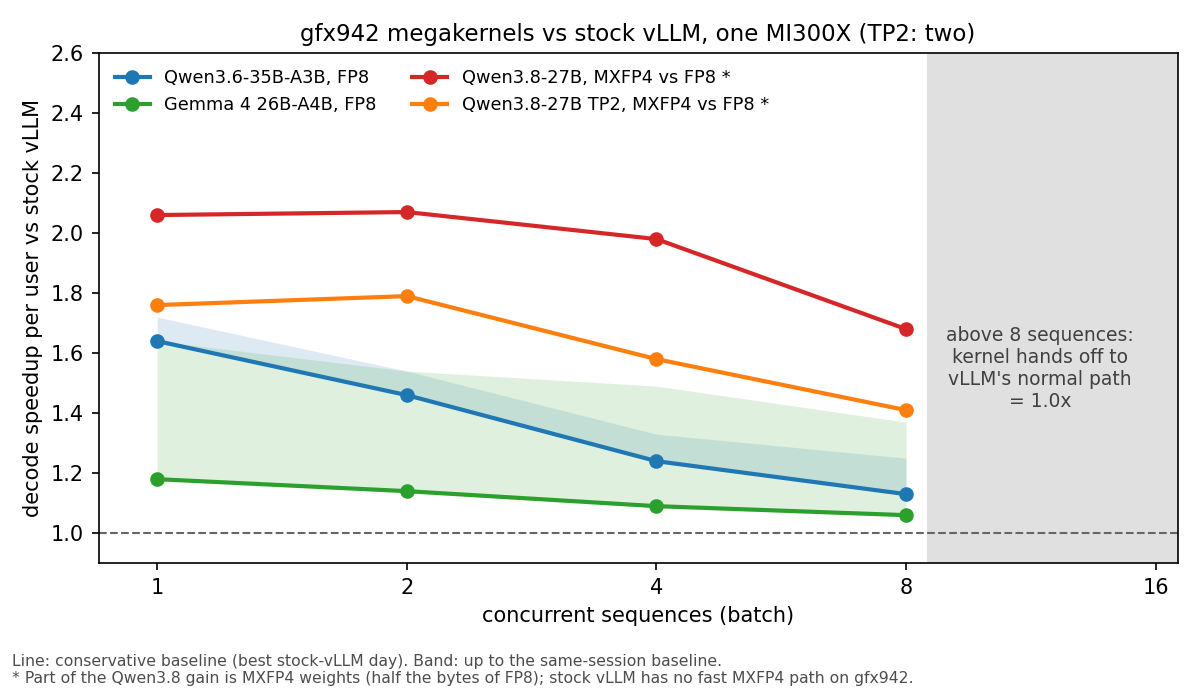
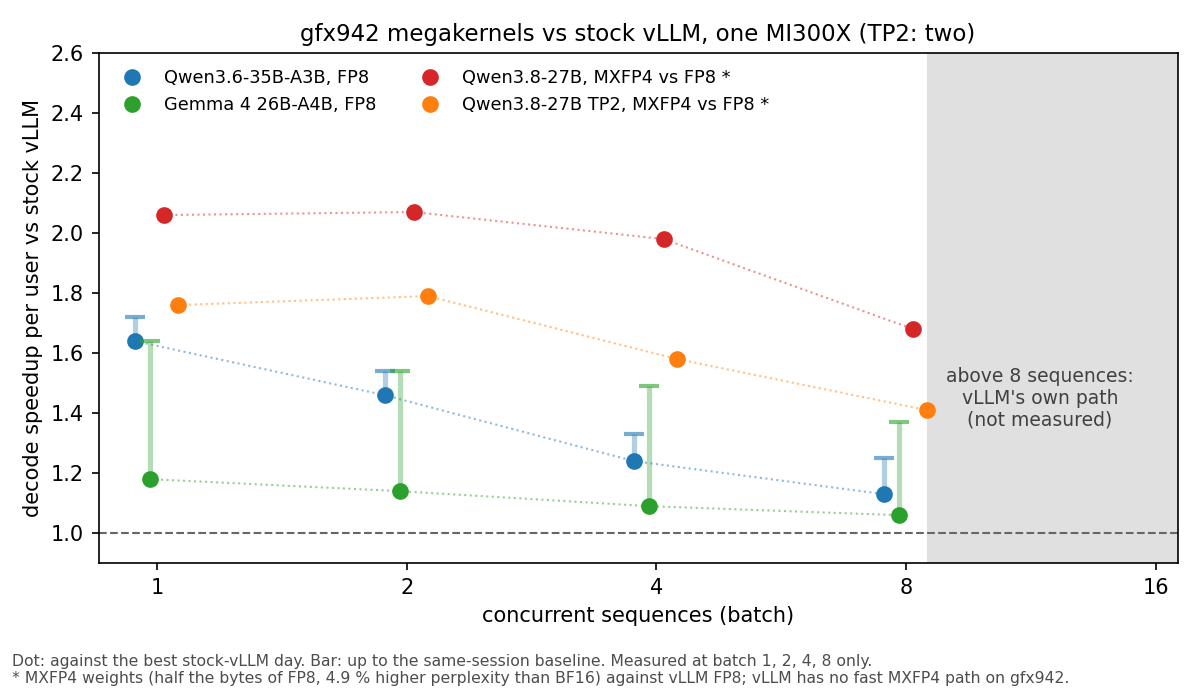
docs(report): revise after review (FP8-vs-FP8 headline, KV cost, harness notes, measured points only)

diff --git a/docs/report/plot_speedup.py b/docs/report/plot_speedup.py
@@ -25,12 +25,15 @@ SERIES = [
 ]
 
 fig, ax = plt.subplots(figsize=(8, 4.6), dpi=150)
-for label, low, high, color in SERIES:
-    ax.plot(B, low, "o-", color=color, label=label, lw=2)
+for i, (label, low, high, color) in enumerate(SERIES):
+    x = [b * (1 + 0.04 * (i - 1.5)) for b in B]  # small offset so points do not overlap
+    ax.plot(x, low, "o", color=color, label=label, ms=7)
+    ax.plot(x, low, ":", color=color, lw=1, alpha=0.5)
     if high:
-        ax.fill_between(B, low, high, color=color, alpha=0.15, lw=0)
+        ax.vlines(x, low, high, color=color, lw=2.5, alpha=0.35)
+        ax.plot(x, high, "_", color=color, ms=10, mew=2, alpha=0.6)
 ax.axvspan(8.5, 17, color="0.88")
-ax.text(11.6, 1.55, "above 8 sequences:\nkernel hands off to\nvLLM's normal path\n= 1.0x", ha="center",
+ax.text(11.6, 1.45, "above 8 sequences:\nvLLM's own path\n(not measured)", ha="center",
         va="center", fontsize=9, color="0.25")
 ax.axhline(1.0, color="0.4", lw=1, ls="--")
 ax.set_xscale("log", base=2)
@@ -42,8 +45,8 @@ ax.set_xlabel("concurrent sequences (batch)")
 ax.set_ylabel("decode speedup per user vs stock vLLM")
 ax.set_title("gfx942 megakernels vs stock vLLM, one MI300X (TP2: two)", fontsize=11)
 ax.legend(fontsize=8.5, loc="upper left", ncol=2, frameon=False)
-fig.text(0.01, 0.01, "Line: conservative baseline (best stock-vLLM day). Band: up to the same-session baseline.\n"
-         "* Part of the Qwen3.8 gain is MXFP4 weights (half the bytes of FP8); stock vLLM has no fast MXFP4 path on gfx942.",
+fig.text(0.01, 0.01, "Dot: against the best stock-vLLM day. Bar: up to the same-session baseline. Measured at batch 1, 2, 4, 8 only.\n"
+         "* MXFP4 weights (half the bytes of FP8, 4.9 % higher perplexity than BF16) against vLLM FP8; vLLM has no fast MXFP4 path on gfx942.",
          fontsize=7.5, color="0.3")
 fig.tight_layout(rect=(0, 0.06, 1, 1))
 fig.savefig(__file__.replace("plot_speedup.py", "speedup.png"))

diff --git a/docs/report/megakernel-viability.md b/docs/report/megakernel-viability.md
@@ -4,89 +4,106 @@
 
 ## TL;DR
 
-- We wrote whole-model decode megakernels for three current models on MI300X (gfx942): one
-  persistent GPU launch runs every layer of a decode step.
-- **Each user gets tokens 1.2-2.1x faster at batch 1, and 1.06-1.7x faster at batch 8**, than with stock vLLM on the
-  same GPU. Above 8 concurrent requests the kernel hands off to vLLM, so the gain is zero.
-- Output accuracy matches vLLM's. The kernels are bitwise deterministic, and they run inside vLLM today on our branches.
-- **The tradeoff:** the gain is for interactive, low-concurrency serving only, and each model needs its own kernel.
-  Landing it depends on vLLM PR [#61311](https://github.com/vllm-project/vllm/pull/61311).
+- We wrote decode megakernels for three current models on MI300X (gfx942). One persistent GPU launch runs
+  every layer of a decode step, and the kernels run inside vLLM on our branches.
+- **With the same FP8 weights, each user gets tokens 1.2-1.6x faster at batch 1 and 1.06-1.13x faster at
+  batch 8** than with stock vLLM on the same GPU. Qwen3.8 reaches 2.1x, partly because it also uses the
+  smaller MXFP4 checkpoint, which costs accuracy.
+- **The gain is for interactive, low-concurrency decode only.** Above 8 concurrent requests, and during
+  prefill, vLLM's own path runs. The kernel's own weight copy cuts KV-cache space by 18-25 %.
+- **Cost:** a new kernel for each model, and upstream landing waits on vLLM PR
+  [#61311](https://github.com/vllm-project/vllm/pull/61311).
 
 ## What a megakernel changes
 
 A normal engine launches hundreds of small kernels for each generated token. At small batch, the GPU spends
 much of the step between kernels instead of reading weights. A megakernel keeps one workgroup resident on each
-of the 304 compute units for the whole step. It streams every weight once and passes data from one stage to
-the next through grid barriers inside the launch. AMD's own megakernel work (ATOM, aitermk, vLLM's DeepSeek-V4.1
-"mono" decode) targets MI355X. The only other MI300X megakernel we know of is DeepSeek-V4.1 at TP2/TP4 in #61311.
+of the 304 compute units for the whole step. It streams every weight once and passes data from one stage to the
+next through grid barriers inside the launch. AMD's ATOM and aitermk megakernels target MI355X. For MI300X,
+#61311 adds a DeepSeek-V4.1 decode megakernel (TP4) and the hooks that our kernels plug into.
 
 ## Results
 
-![Speedup per batch size](IMG_SPEEDUP)
+![Speedup per batch size](https://raw.githubusercontent.com/SamuelReeder/megakernels/1c4b881b6f47066a990078a58a1b29746d0bc192/docs/report/speedup.png)
 
-| Model (all layers in one launch) | Weights | Batch 1, per user | Speedup vs stock vLLM, batch 1 → 8 | Inside vLLM ([#61311](https://github.com/vllm-project/vllm/pull/61311) branch) |
+| Model | Weights | Batch 1 per user | Speedup vs stock vLLM, batch 1 → 8 | In vLLM, kernel on, batch 1 |
 |---|---|---|---|---|
-| [Qwen3.6-35B-A3B](LINK_Q6) (hybrid attention, 256-expert MoE) | FP8 | 3.11 ms, 322 tok/s | **1.64x → 1.13x** (same-day baseline: 1.72x → 1.25x) | 1.3-2.0x vLLM's own path |
-| [Gemma 4 26B-A4B](LINK_G) (sliding window, 128-expert MoE) | FP8 | 3.74 ms, 267 tok/s | **1.18x → 1.06x** (same-day baseline: 1.64x → 1.37x) | same speed as standalone, every batch 1-8 |
-| [Qwen3.8-27B](LINK_Q8) (hybrid attention, dense) | MXFP4 * | 7.56 ms, 132 tok/s | **2.06x → 1.68x** | same speed as standalone |
-| [Qwen3.8-27B, 2 GPUs (TP2)](LINK_TP2) | MXFP4 * | 5.59 ms, 179 tok/s | **1.76x → 1.41x** vs vLLM TP2 | same speed as standalone |
+| [Qwen3.6-35B-A3B](https://github.com/SamuelReeder/megakernels/blob/1c4b881b6f47066a990078a58a1b29746d0bc192/qwen3.6-35b-a3b-gfx942/README.md) (hybrid attention, 256-expert MoE) | FP8 | 3.11 ms, 322 tok/s | **1.64x → 1.13x** (same-day baseline: 1.72x → 1.25x) | 2.9-3.2 ms |
+| [Gemma 4 26B-A4B](https://github.com/SamuelReeder/megakernels/blob/1c4b881b6f47066a990078a58a1b29746d0bc192/gemma4-26b-a4b-gfx942/README.md) (sliding window, 128-expert MoE) | FP8 | 3.74 ms, 267 tok/s | **1.18x → 1.06x** (same-day baseline: 1.64x → 1.37x) | 3.67 ms |
+| [Qwen3.8-27B](https://github.com/SamuelReeder/megakernels/blob/1c4b881b6f47066a990078a58a1b29746d0bc192/qwen3.8-27b-gfx942/README.md) (hybrid attention, dense) | MXFP4 * | 7.56 ms, 132 tok/s | **2.06x → 1.68x** | 7.8 ms |
+| [Qwen3.8-27B, 2 GPUs (TP2)](https://github.com/SamuelReeder/megakernels/blob/1c4b881b6f47066a990078a58a1b29746d0bc192/qwen3.8-27b-gfx942/README.md#tensor-parallel-2-two-mi300x-over-xgmi) | MXFP4 * | 5.59 ms, 179 tok/s | **1.76x → 1.41x** vs vLLM TP2 | 5.58 ms |
 
-One MI300X (two for TP2), 512-token prompts, time per output token, October 22-29. Baseline: stock vLLM
-(0.29.1 or 0.32 nightly) with its fastest settings (FP8 checkpoint, AITER where it works). The
-bold number uses the best day we measured for stock vLLM. On other days stock vLLM ran 4-38 % slower on the
-same node for reasons we did not find.
+**How this was measured.**
+- **Setup:** one MI300X (two for TP2), 512-token prompts, time per output token, October 22-29.
+- **Baseline:** stock vLLM (0.29.1 or 0.32 nightly) on the FP8 checkpoint, with AITER where it works.
+  The BF16 checkpoint is up to 5 % faster than FP8 at batch 1 for Qwen3.6 and TP2.
+- **Harnesses:** the kernel was timed standalone, and vLLM through its own benchmark, which includes its
+  scheduler. The last column is the kernel running inside vLLM.
+- **Which day:** the bold ratio uses the best day for stock vLLM. On other days it ran 4-38 % slower on the
+  same node, for reasons we did not find.
 
-\* Qwen3.8 runs the MXFP4 checkpoint against vLLM's FP8, because vLLM has no fast MXFP4 path on gfx942. MXFP4
-reads half the weight bytes, so part of that gain is the format, not the kernel. Qwen3.6 and Gemma compare FP8
-with FP8.
+\* Qwen3.8 runs MXFP4 against vLLM's FP8, because vLLM has no fast MXFP4 path on gfx942. MXFP4 reads half the
+bytes of FP8, so part of the gain is the format. The MXFP4 checkpoint scores 4.9 % higher perplexity than BF16
+(1.658 against 1.581).
 
-**Correctness.** Perplexity is no more than 1 % above a reference with the same weights (Gemma's is lower). For
-example, Qwen3.6 scores 1.589, against 1.585 for the FP8 reference and 1.584 for BF16. Every kernel is bitwise deterministic, and a request
-gets the same bits alone or in a batch. Results repeat on a second day and on a second node (MI325X). This
-determinism also found a faulty MI300X on the cluster, where plain PyTorch gave different answers on each run.
+**Correctness.**
+- **Accuracy:** perplexity is no more than 1 % above a reference with the same weights (Gemma's is lower).
+  Qwen3.6, for example, scores 1.589, against 1.585 for the FP8 reference and 1.584 for BF16.
+- **Inside vLLM:** greedy output follows vLLM's own path until the first near-tied token. We have not run a
+  task-level evaluation.
+- **Determinism:** every kernel is bitwise deterministic, and a request gets the same bits alone or in a batch.
+- **Repeat runs:** earlier versions of each kernel gave the same results on a second day and on an MI325X. The
+  current Qwen3.6 and Gemma kernels have passed their checks on one node only.
 
 ## Where it helps, and where it does not
 
 | Serving situation | Effect |
 |---|---|
-| 1-8 concurrent requests (chat, agents, latency SLAs) | **Faster**: 1.06-2.1x tokens/s per user, and total throughput rises by the same factor |
-| More than 8 concurrent requests | **None**: the step runs on vLLM's normal path |
-| Time to first token (prefill) | **None**: prefill always runs on vLLM's path |
-| Peak server throughput | **None** |
+| 1-8 concurrent requests in decode (chat, agents, latency targets) | **Faster**, by the ratios above |
+| More than 8 concurrent requests, or any step that includes prefill | **None**: vLLM's own path runs |
+| Time to first token | **None** |
+| KV-cache capacity, and therefore peak throughput and long context | **Lower**: the kernel's weight copy uses 18-25 % of the KV cache (Qwen3.6, Gemma) |
+
+All speed numbers come from steady decode with a fixed batch. Under real traffic, any step that mixes in a new
+prompt runs on vLLM's path, so the gain will be smaller. We have not measured how much.
 
 ## Tradeoffs to weigh
 
-1. **One kernel per model.** Each model needs about 2,000 lines of kernel code. A shared library of
-   about 1,900 lines covers the GEMV stream, FP8/MXFP4 packing and the compile key. With that library and agent-driven
-   work, a new model took 1-2 days (Qwen3.6, Gemma) and TP2 took 3. New checkpoint formats and new
-   cache layouts in vLLM also need kernel work.
-2. **Strict deployment needs.** The kernel needs the whole GPU: every compute unit must hold one resident
-   workgroup, so partitioned modes (CPX) are refused. A wrong setup would hang instead of failing, so each
-   kernel checks the setup at load and refuses. Binaries are specific to the GPU model, the KV layout and the
-   batch width (4 per model per configuration). Tuning is gfx942-specific; MI355X would need a port.
-3. **Upstream dependency.** The vLLM integration builds on [#61311](https://github.com/vllm-project/vllm/pull/61311),
-   which is open, not merged. After it lands, each model is one more upstream PR. An optional route that ships
-   precompiled kernels through hipDNN works end to end (same bits, speed within 0.8 %), but it depends on
-   [ROCm/rocm-libraries#14255](https://github.com/ROCm/rocm-libraries/pull/14255), which is still a draft.
-4. **Benchmarks drift.** Stock vLLM's speed varied by up to 38 % between days on one node. Any external claim
-   needs a same-day, same-node baseline.
-
-**Upside not yet used.** About 40 % of a Qwen3.8 step is fixed cost per stage (barriers and hand-offs), and
-the weight stream reaches 3.3-3.7 of the GPU's 5.3 TB/s. Speculative decoding (several tokens checked per
-launch) is not in these kernels yet. AMD's largest MI355X gains combine it with their megakernels.
+1. **One kernel per model.**
+   - Each model has about 1,900-2,300 lines of kernel code, plus a PyTorch reference and the vLLM integration.
+   - Qwen3.6 and Gemma took 1-2 days each, with agents, by adapting the earlier kernels. TP2 took
+     3 days. The shared parts now live in one common library.
+   - New checkpoint formats or new vLLM cache layouts need kernel work.
+2. **Strict deployment needs.**
+   - The kernel must have every compute unit to itself. A partitioned GPU, or other work on the same GPU,
+     can make it hang.
+   - A check that turns this into a refusal is designed but not yet tested.
+   - Each model needs one binary per batch width (1, 2, 4, 8) for each GPU model, KV layout and TP size.
+   - The tuning is for gfx942; MI355X would need a port.
+3. **Upstream dependency.**
+   - Our vLLM integration builds on [#61311](https://github.com/vllm-project/vllm/pull/61311), which is open,
+     not merged. After it lands, each model needs its own upstream PR.
+   - An optional route ships precompiled kernels through hipDNN. It works end to end, with the same bits and
+     speed within 0.8 %. It waits on [ROCm/rocm-libraries#14255](https://github.com/ROCm/rocm-libraries/pull/14255),
+     which is a draft.
 
 ## Recommendation
 
-1. **Land through vLLM.** Push for review of [#61311](https://github.com/vllm-project/vllm/pull/61311), then upstream
-   Qwen3.6 first. It has the cleanest result: FP8 against FP8, 1.64x at batch 1.
-2. **Choose models by demand.** Build a kernel only for models that serve interactive traffic on MI300X/MI325X.
-   Before starting one, agree the split with AMD's MI355X megakernel teams.
-3. **Next engineering bet:** speculative-decoding verify inside the kernel, then a cut in the fixed per-stage
-   cost. Defer an MI355X port until someone asks for it.
-4. **Before any public claim:** re-run all baselines on one node on one day.
+1. **Land through vLLM.** Push for review of [#61311](https://github.com/vllm-project/vllm/pull/61311). Then
+   upstream Qwen3.6 first, because it has the clearest result: FP8 against FP8, 1.64x at batch 1.
+2. **Measure real serving before any public claim.**
+   - Run `vllm bench serve` with the kernel on and off, with arrivals at concurrency 1-8, on one node and day.
+   - Report the KV-cache cost next to the speedup.
+3. **Build kernels only where there is demand,** meaning models that serve interactive traffic on
+   MI300X/MI325X. Agree the split with AMD's MI355X megakernel teams before starting one.
+4. **Next engineering work, if we continue:**
+   - Cut the fixed cost per stage: barriers and hand-offs are about 40 % of a Qwen3.8 step, and the weight
+     stream reaches 3.3-3.7 TB/s of the GPU's 5.3 TB/s.
+   - Share one weight copy with vLLM, which recovers the KV cache.
+   - Verify several speculative tokens in each launch.
 
 ## Links
 
-- Per-model results, every run and log: [Qwen3.6](LINK_Q6) · [Gemma 4](LINK_G) · [Qwen3.8](LINK_Q8) · [Qwen3.8 TP2 design](LINK_TP2D)
-- hipDNN distribution route (design and results): [docs/hipdnn-route.md](LINK_HIPDNN)
-- Chart data and sources: [docs/report/plot_speedup.py](LINK_PLOT)
+- Per-model results, every run and log: [Qwen3.6](https://github.com/SamuelReeder/megakernels/blob/1c4b881b6f47066a990078a58a1b29746d0bc192/qwen3.6-35b-a3b-gfx942/README.md) · [Gemma 4](https://github.com/SamuelReeder/megakernels/blob/1c4b881b6f47066a990078a58a1b29746d0bc192/gemma4-26b-a4b-gfx942/README.md) · [Qwen3.8](https://github.com/SamuelReeder/megakernels/blob/1c4b881b6f47066a990078a58a1b29746d0bc192/qwen3.8-27b-gfx942/README.md) · [Qwen3.8 TP2 design](https://github.com/SamuelReeder/megakernels/blob/1c4b881b6f47066a990078a58a1b29746d0bc192/qwen3.8-27b-gfx942/docs/DESIGN-TP2.md)
+- hipDNN distribution route (design and results): [docs/hipdnn-route.md](https://github.com/SamuelReeder/megakernels/blob/1c4b881b6f47066a990078a58a1b29746d0bc192/docs/hipdnn-route.md)
+- Chart data and sources: [docs/report/plot_speedup.py](https://github.com/SamuelReeder/megakernels/blob/1c4b881b6f47066a990078a58a1b29746d0bc192/docs/report/plot_speedup.py)
